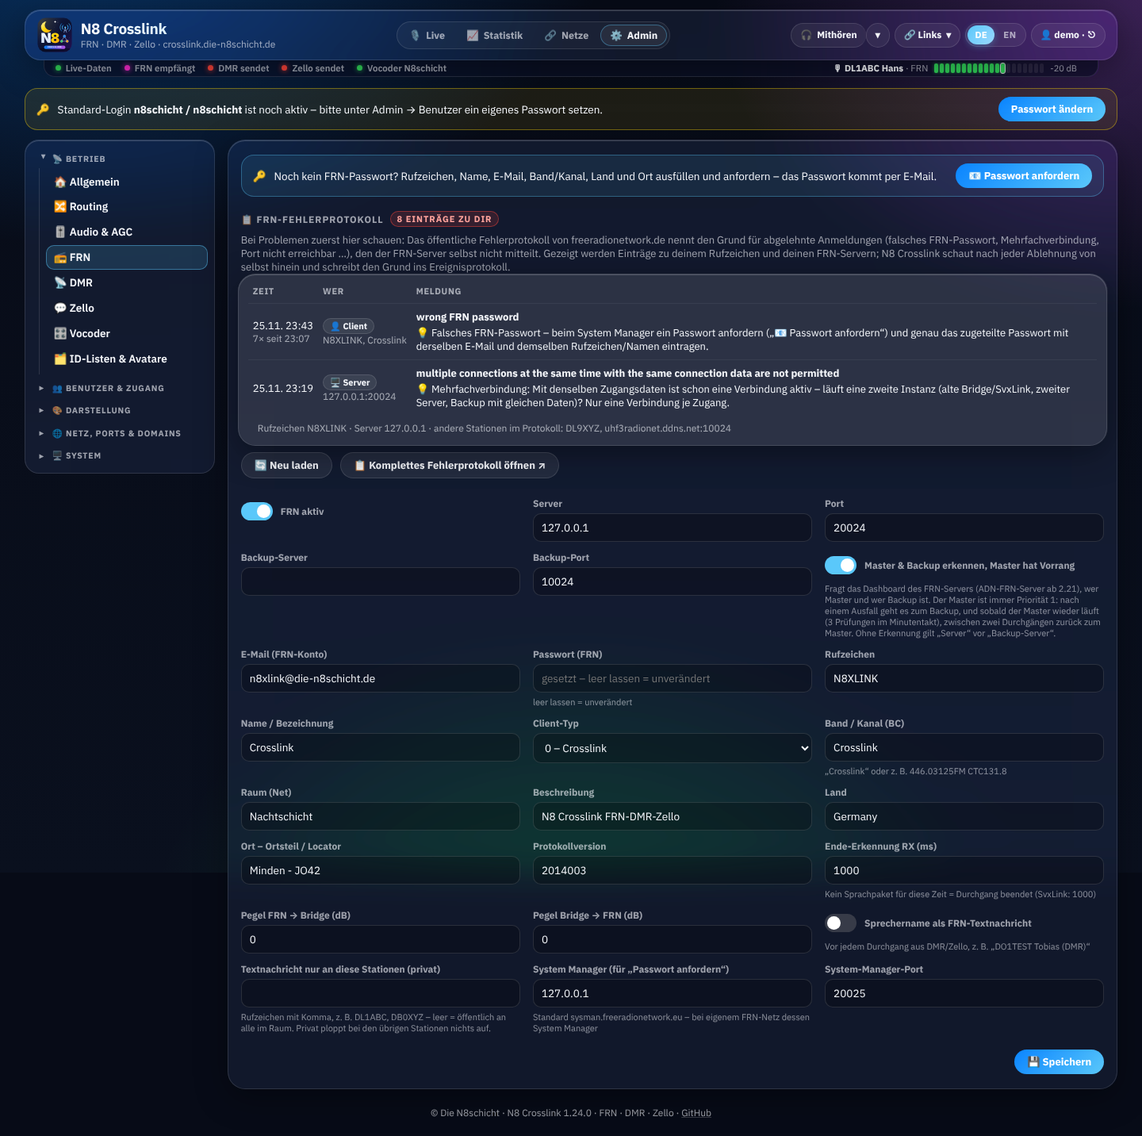
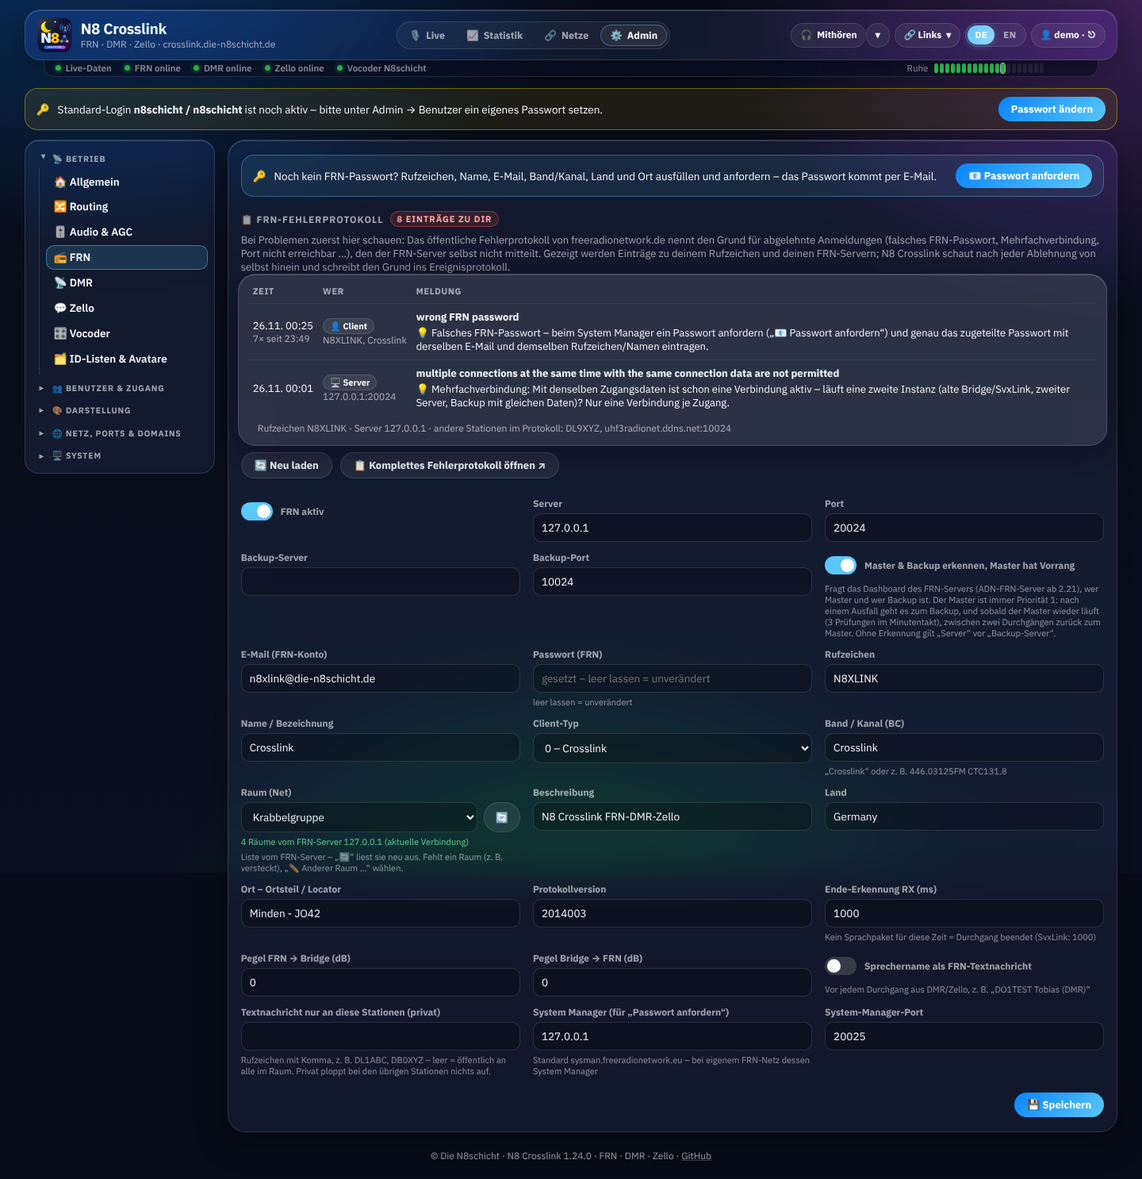
1.25.0: FRN-Raum als Auswahlmenü – Räume aus Verbindung, ADN-Dashboard oder kurzer FRN-Anmeldung
Claude-Session: https://claude.ai/code/session_01J5RG2njQDPpN1LJmv9Xn8d

diff --git a/n8crosslink/web/static/crosslink.js b/n8crosslink/web/static/crosslink.js
@@ -544,7 +544,7 @@ const SCHEMA = {
     F('callsign', 'Rufzeichen'), F('op_name', 'Name / Bezeichnung'),
     F('client_type', 'Client-Typ', 'select', { options: [[0, '0 – Crosslink'], [1, '1 – Gateway'], [2, '2 – PC Only']] }),
     F('band', 'Band / Kanal (BC)', 'text', { help: '„Crosslink“ oder z. B. 446.03125FM CTC131.8' }),
-    F('net', 'Raum (Net)'), F('description', 'Beschreibung'), F('country', 'Land'), F('city', 'Ort – Ortsteil / Locator'),
+    F('net', 'Raum (Net)', 'room', { help: 'Liste vom FRN-Server – „🔄“ liest sie neu aus. Fehlt ein Raum (z. B. versteckt), „✏ Anderer Raum …“ wählen.' }), F('description', 'Beschreibung'), F('country', 'Land'), F('city', 'Ort – Ortsteil / Locator'),
     F('version', 'Protokollversion'), F('rx_timeout_ms', 'Ende-Erkennung RX (ms)', 'number', { help: 'Kein Sprachpaket für diese Zeit = Durchgang beendet (SvxLink: 1000)' }),
     F('rx_gain_db', 'Pegel FRN → Bridge (dB)', 'number', { step: 0.5 }), F('tx_gain_db', 'Pegel Bridge → FRN (dB)', 'number', { step: 0.5 }),
     F('text_messages', 'Sprechername als FRN-Textnachricht', 'bool', { help: 'Vor jedem Durchgang aus DMR/Zello, z. B. „DO1TEST Tobias (DMR)“' }),
@@ -639,15 +639,55 @@ async function loadAdmin() {
   const sec = SCHEMA[S.adminSec];
   if (sec.custom) return sec.custom();
   renderForm(S.adminSec, sec.fields, sec.extra || '');
-  if (S.adminSec === 'frn') { $('#frnPwBtn').onclick = requestFrnPassword; $('#frnElReload').onclick = () => loadFrnErrorlog(true); loadFrnErrorlog(); }
+  if (S.adminSec === 'frn') { initRoomPick();
+    $('#frnPwBtn').onclick = requestFrnPassword; $('#frnElReload').onclick = () => loadFrnErrorlog(true); loadFrnErrorlog(); }
   if (S.adminSec === 'general') $('#annBtn').onclick = previewAnnounce;
+}
+
+// FRN: Raum-Auswahl aus der Raumliste des Servers (live · Dashboard · kurze Anmeldung)
+const ROOM_OTHER = '__other__';
+function initRoomPick() {
+  const sel = $('#f_frn_net'); if (!sel) return;
+  $('#frnRoomsBtn').onclick = () => loadRooms(true);
+  sel.onchange = () => {
+    if (sel.value !== ROOM_OTHER) return;
+    const cur = sel.dataset.prev || '';
+    const v = (prompt('Name des Raums (genau wie auf dem FRN-Server):', cur) || '').trim();
+    if (v && ![...sel.options].some(o => o.value === v)) sel.insertBefore(new Option(v + '  (eigene Eingabe)', v), sel.querySelector(`option[value="${ROOM_OTHER}"]`));
+    sel.value = v || cur;
+  };
+  sel.onfocus = () => { if (sel.value !== ROOM_OTHER) sel.dataset.prev = sel.value; };
+  ['#f_frn_server', '#f_frn_port'].forEach(q => { const el = $(q); if (el) el.addEventListener('change', () => loadRooms(true)); });
+  loadRooms(false);
+}
+async function loadRooms(manual) {
+  const sel = $('#f_frn_net'), note = $('#frnRoomsNote'), btn = $('#frnRoomsBtn'); if (!sel) return;
+  const cur = sel.value, server = ($('#f_frn_server')?.value || '').trim(), port = ($('#f_frn_port')?.value || '').trim();
+  note.textContent = 'Räume werden ausgelesen …'; note.className = 'room-note'; btn.disabled = true;
+  try {
+    const d = await api(`/api/admin/frn/rooms?server=${encodeURIComponent(server)}&port=${encodeURIComponent(port)}`);
+    if ($('#f_frn_net') !== sel) return;
+    const rooms = d.rooms || [];
+    const names = rooms.map(r => r.name);
+    const opts = rooms.map(r => [r.name, r.name + (r.clients != null ? `  · ${r.clients} ${r.clients === 1 ? 'Station' : 'Stationen'}` : '')]);
+    if (cur && !names.includes(cur)) opts.unshift([cur, cur + (rooms.length ? '  (nicht in der Liste)' : '')]);
+    if (!opts.length) opts.push(['', '– Raum wählen –']);
+    sel.innerHTML = opts.map(([v, l]) => `<option value="${esc(v)}">${esc(l)}</option>`).join('') + `<option value="${ROOM_OTHER}">✏ Anderer Raum …</option>`;
+    sel.value = cur || opts[0][0];
+    note.textContent = rooms.length ? `${rooms.length} ${rooms.length === 1 ? 'Raum' : 'Räume'} ${d.note || ''}` : (d.note || 'Keine Räume gefunden');
+    note.className = 'room-note ' + (rooms.length ? 'ok' : 'warn');
+    if (manual && rooms.length) toast(`🔄 ${rooms.length} Räume ausgelesen`);
+  } catch (e) { note.textContent = '⚠ ' + e.message; note.className = 'room-note warn'; }
+  finally { btn.disabled = false; }
 }
 
 function fieldHtml(sec, f, val) {
   const id = `f_${sec}_${f.key}`, help = f.help ? `<small>${esc(f.help)}</small>` : '';
   if (f.type === 'bool') return `<div class="field ${f.wide ? 'wide' : ''}"><label class="switch"><input type="checkbox" id="${id}" ${val ? 'checked' : ''}><span></span>${esc(f.label)}</label>${help}</div>`;
   let input;
-  if (f.type === 'select') input = `<select id="${id}">${f.options.map(([v, l]) => `<option value="${esc(v)}" ${String(v) === String(val) ? 'selected' : ''}>${esc(l)}</option>`).join('')}</select>`;
+  if (f.type === 'room') input = `<div class="room-pick"><select id="${id}"><option value="${esc(val)}" selected>${esc(val || '– Raum wählen –')}</option></select>
+    <button class="btn secondary" type="button" id="frnRoomsBtn" title="Räume vom FRN-Server auslesen">🔄</button></div><small id="frnRoomsNote" class="room-note">Räume werden ausgelesen …</small>`;
+  else if (f.type === 'select') input = `<select id="${id}">${f.options.map(([v, l]) => `<option value="${esc(v)}" ${String(v) === String(val) ? 'selected' : ''}>${esc(l)}</option>`).join('')}</select>`;
   else if (f.type === 'textarea') input = `<textarea id="${id}" placeholder="${val === '********' ? 'gesetzt – leer lassen = unverändert' : ''}">${val === '********' ? '' : esc(val)}</textarea>`;
   else if (f.type === 'json') input = `<textarea id="${id}">${esc(JSON.stringify(val, null, 2))}</textarea>`;
   else if (f.type === 'password') input = `<input type="password" id="${id}" autocomplete="new-password" placeholder="${val ? 'gesetzt – leer lassen = unverändert' : ''}">`;
@@ -657,6 +697,7 @@ function fieldHtml(sec, f, val) {
 function readField(sec, f) {
   const el = $(`#f_${sec}_${f.key}`); if (!el) return undefined;
   if (f.type === 'bool') return el.checked;
+  if (f.type === 'room' && el.value === ROOM_OTHER) return el.dataset.prev || '';
   if (f.type === 'json') { try { return JSON.parse(el.value); } catch { throw new Error(f.label + ': ungültiges JSON'); } }
   return el.value;
 }

diff --git a/n8crosslink/web/static/crosslink.css b/n8crosslink/web/static/crosslink.css
@@ -532,3 +532,10 @@ tr.perm-ok td:last-child { color: var(--text-dim); }
 .xl-radio .lcd-chart .oa-canvas { flex: none; height: 150px; min-height: 0; }
 .xl-radio .rd-inst .oa-canvas { height: 70px; }
 .xl-radio .rd-main { align-items: stretch; }
+
+/* FRN: Raum-Auswahl */
+.room-pick { display: flex; gap: 8px; align-items: stretch; }
+.room-pick select { flex: 1; min-width: 0; }
+.room-pick .btn { padding: 0 14px; flex: none; }
+.room-note.ok { color: #6ee7a0; }
+.room-note.warn { color: #fbbf24; }

diff --git a/n8crosslink/frn_rooms.py b/n8crosslink/frn_rooms.py
@@ -1,0 +1,134 @@
+"""Räume (Nets) eines FRN-Servers auslesen – für das Raum-Auswahlmenü im Admin.
+
+Drei Quellen, in dieser Reihenfolge:
+
+1. **live** – der Crosslink ist mit genau diesem Server verbunden: die Raumliste, die der Server nach dem Login schickt
+   (Listentyp 5), steht schon bereit.
+2. **dashboard** – der Server hat ein ADN-FRN-Server-Dashboard (``/api/live`` → ``rooms``): Räume mit Stationszahl,
+   ohne FRN-Anmeldung. Versteckte Räume zeigt das öffentliche Dashboard nicht.
+3. **login** – kurze FRN-Anmeldung mit dem eingetragenen Konto, Raumliste lesen, sofort wieder abmelden. Nur wenn der
+   Crosslink gerade *nicht* mit demselben Konto online ist (der System Manager erlaubt jedes Konto nur einmal).
+"""
+from __future__ import annotations
+
+import asyncio
+import re
+from typing import Any
+
+from . import frn_cluster
+
+DT_IDLE, DT_DO_TX, DT_VOICE, DT_CLIENT_LIST, DT_NETS = 0, 1, 2, 3, 5
+GSM_BYTES = 325
+TIMEOUT = 10.0
+
+
+def _clean(names: list[str]) -> list[str]:
+    out = []
+    for n in names:
+        n = re.sub(r"<[^>]+>", "", str(n or "")).strip()
+        if n and n not in out:
+            out.append(n)
+    return out
+
+
+def from_dashboard_data(d: dict | None) -> list[dict]:
+    rooms = (d or {}).get("rooms")
+    if not isinstance(rooms, list):
+        return []
+    out = []
+    for r in rooms:
+        if isinstance(r, dict) and r.get("name") and not r.get("hidden"):
+            out.append({"name": str(r["name"]), "clients": len(r.get("clients") or [])})
+    return out
+
+
+async def _probe(host: str, port: int, s: dict) -> list[str]:
+    """Kurz am FRN-Server anmelden und die Raumliste lesen."""
+    on = f"{s.get('callsign', '')}, {s.get('op_name', '')}"
+    login = ("CT:" + f"<VX>{s.get('version') or '2014003'}</VX>" + f"<EA>{s.get('email', '')}</EA>"
+             + f"<PW>{s.get('password', '')}</PW>" + f"<ON>{on}</ON>" + f"<CL>{s.get('client_type', 0)}</CL>"
+             + f"<BC>{s.get('band', '')}</BC>" + f"<DS>{s.get('description', '')}</DS>" + f"<NN>{s.get('country', '')}</NN>"
+             + f"<CT>{s.get('city', '')}</CT>" + f"<NT>{s.get('net') or 'Test'}</NT>")
+    reader, writer = await asyncio.wait_for(asyncio.open_connection(host, port), TIMEOUT)
+
+    def cmd(t: str) -> None:
+        writer.write(t.encode("latin-1", errors="replace") + b"\r\n")
+
+    async def read_list() -> list[str]:
+        first = (await asyncio.wait_for(reader.readline(), TIMEOUT)).decode("latin-1").strip()
+        try:
+            n = int(first)
+        except ValueError:
+            return []
+        return [(await asyncio.wait_for(reader.readline(), TIMEOUT)).decode("latin-1", "replace").rstrip("\r\n")
+                for _ in range(min(n, 200))]
+
+    try:
+        cmd(login)
+        await writer.drain()
+        await asyncio.wait_for(reader.readline(), TIMEOUT)                     # Server-Version
+        resp = (await asyncio.wait_for(reader.readline(), TIMEOUT)).decode("latin-1", "replace")
+        al = (re.search(r"<AL>(.*?)</AL>", resp) or [None, ""])[1]
+        if al in ("", "WRONG", "BLOCK"):
+            raise PermissionError(f"Anmeldung abgelehnt ({al or 'keine Antwort'}) – E-Mail/Passwort prüfen")
+        cmd("RX0")
+        cmd("P")
+        loop = asyncio.get_running_loop()
+        end = loop.time() + TIMEOUT
+        while loop.time() < end:
+            b = await asyncio.wait_for(reader.readexactly(1), max(0.5, end - loop.time()))
+            dt = b[0]
+            if dt == DT_IDLE:
+                cmd("P")
+            elif dt == DT_DO_TX:
+                await reader.readexactly(2)
+            elif dt == DT_VOICE:
+                await reader.readexactly(2 + GSM_BYTES)
+                cmd("P")
+            elif dt == DT_CLIENT_LIST:
+                await reader.readexactly(2)
+                await read_list()
+                cmd("P")
+            elif dt == DT_NETS:
+                return await read_list()
+            elif 4 <= dt <= 10:
+                await read_list()
+                cmd("P")
+            else:
+                break
+        return []
+    finally:
+        try:
+            writer.close()
+        except Exception:  # noqa: BLE001
+            pass
+
+
+async def rooms(host: str, port: int, section: dict, frn_port: Any = None) -> dict:
+    """Raumliste für ``host:port``. Rückgabe ``{rooms: [{name, clients?}], source, note}``."""
+    host = (host or "").strip()
+    if not host:
+        return {"rooms": [], "source": "", "note": "Erst einen Server eintragen"}
+    online_same = bool(frn_port and getattr(frn_port, "online", False) and getattr(frn_port, "target", None)
+                       and str(frn_port.target[0]).lower() == host.lower())
+    live = _clean(getattr(frn_port, "nets", []) or []) if online_same else []
+    if live:
+        return {"rooms": [{"name": n} for n in live], "source": "live",
+                "note": f"vom FRN-Server {host} (aktuelle Verbindung)"}
+    dash = from_dashboard_data(await asyncio.to_thread(frn_cluster.dashboard, host, "/api/live"))
+    if dash:
+        return {"rooms": dash, "source": "dashboard", "note": f"vom Dashboard {host} (ohne versteckte Räume)"}
+    if frn_port and getattr(frn_port, "online", False) and section.get("email"):
+        return {"rooms": [], "source": "", "note": "Der Crosslink ist gerade mit diesem FRN-Konto online – eine zweite Anmeldung "
+                                                   "würde abgelehnt. Raumliste kommt nach dem Verbinden mit diesem Server."}
+    if not section.get("email") or not section.get("password"):
+        return {"rooms": [], "source": "", "note": "Für das Auslesen per FRN-Anmeldung E-Mail und Passwort eintragen und speichern"}
+    try:
+        names = _clean(await _probe(host, int(port or 10024), section))
+    except PermissionError as e:
+        return {"rooms": [], "source": "", "note": str(e)}
+    except (OSError, asyncio.TimeoutError, asyncio.IncompleteReadError) as e:
+        return {"rooms": [], "source": "", "note": f"{host}:{port} nicht erreichbar ({e.__class__.__name__})"}
+    if not names:
+        return {"rooms": [], "source": "", "note": "Der Server hat keine Raumliste geschickt"}
+    return {"rooms": [{"name": n} for n in names], "source": "login", "note": f"vom FRN-Server {host} (kurze Anmeldung)"}

diff --git a/tests/test_frn_rooms.py b/tests/test_frn_rooms.py
@@ -1,0 +1,72 @@
+"""Raum-Auswahl FRN: Raumliste per kurzer FRN-Anmeldung, aus dem Dashboard und aus der laufenden Verbindung."""
+import asyncio
+import sys
+from pathlib import Path
+from types import SimpleNamespace
+from unittest import mock
+
+sys.path.insert(0, str(Path(__file__).resolve().parents[1]))
+from n8crosslink import frn_rooms  # noqa: E402
+
+ACC = {"email": "a@b.de", "password": "x", "callsign": "DO1TEST", "op_name": "Test", "net": "Test"}
+
+
+async def _fake_server(answer_al: str, logins: list):
+    async def handle(r, w):
+        logins.append((await r.readline()).decode())
+        w.write(b"2014003\r\n" + f"<SV>1</SV><AL>{answer_al}</AL>\r\n".encode())
+        await w.drain()
+        if answer_al != "OK":
+            w.close()
+            return
+        await r.readline()                                    # RX0
+        w.write(bytes([3]) + b"\x00\x01" + b"1\r\n<ON>DL1ABC, Hans</ON>\r\n")       # Teilnehmerliste zuerst
+        w.write(bytes([5]) + b"3\r\nKrabbelgruppe\r\nLagerfeuer\r\nTest\r\n")       # dann die Raumliste
+        await w.drain()
+        try:
+            await asyncio.wait_for(r.read(), 5)
+        except Exception:  # noqa: BLE001
+            pass
+        w.close()
+    return await asyncio.start_server(handle, "127.0.0.1", 0)
+
+
+def test_probe_login_reads_rooms():
+    async def run():
+        logins = []
+        srv = await _fake_server("OK", logins)
+        port = srv.sockets[0].getsockname()[1]
+        with mock.patch.object(frn_rooms.frn_cluster, "dashboard", return_value=None):
+            d = await frn_rooms.rooms("127.0.0.1", port, ACC, None)
+        srv.close()
+        return d, logins
+    d, logins = asyncio.run(run())
+    assert [r["name"] for r in d["rooms"]] == ["Krabbelgruppe", "Lagerfeuer", "Test"] and d["source"] == "login"
+    assert "<EA>a@b.de</EA>" in logins[0]
+
+
+def test_probe_wrong_password():
+    async def run():
+        srv = await _fake_server("WRONG", [])
+        port = srv.sockets[0].getsockname()[1]
+        with mock.patch.object(frn_rooms.frn_cluster, "dashboard", return_value=None):
+            d = await frn_rooms.rooms("127.0.0.1", port, ACC, None)
+        srv.close()
+        return d
+    d = asyncio.run(run())
+    assert not d["rooms"] and "abgelehnt" in d["note"]
+
+
+def test_dashboard_and_live_and_no_double_login():
+    dash = {"rooms": [{"name": "A", "clients": [1, 2]}, {"name": "Geheim", "hidden": True, "clients": []}]}
+    with mock.patch.object(frn_rooms.frn_cluster, "dashboard", return_value=dash):
+        d = asyncio.run(frn_rooms.rooms("frn.example.de", 10024, ACC, None))
+    assert d["rooms"] == [{"name": "A", "clients": 2}] and d["source"] == "dashboard"
+    live = SimpleNamespace(online=True, target=("FRN.example.de", 10024), nets=["X", "Y"])
+    d = asyncio.run(frn_rooms.rooms("frn.example.de", 10024, ACC, live))
+    assert [r["name"] for r in d["rooms"]] == ["X", "Y"] and d["source"] == "live"
+    other = SimpleNamespace(online=True, target=("anderer.de", 10024), nets=["X"])
+    with mock.patch.object(frn_rooms.frn_cluster, "dashboard", return_value=None), \
+         mock.patch.object(frn_rooms, "_probe", side_effect=AssertionError("keine zweite Anmeldung")):
+        d = asyncio.run(frn_rooms.rooms("frn.example.de", 10024, ACC, other))
+    assert not d["rooms"] and "online" in d["note"]

diff --git a/tests/sim_e2e.py b/tests/sim_e2e.py
@@ -223,6 +223,7 @@ class FakeFRN:
                         self.sent_list = True
                         body = f"{len(self.CLIENTS)}\r\n" + "\r\n".join(self.CLIENTS) + "\r\n"
                         writer.write(bytes([3, 0, 0]) + body.encode())
+                        writer.write(bytes([5]) + b"4\r\nTest\r\nKrabbelgruppe\r\nLagerfeuer\r\nTechsupport\r\n")   # Raumliste
                     else:
                         await asyncio.sleep(0.05)
                         writer.write(b"\x00")
@@ -433,6 +434,11 @@ async def main() -> int:
     await asyncio.sleep(0.5)
     check("FRN-Raumliste gelesen", len(r.ports["frn"].clients) == 2,
           ", ".join(c["callsign"] + " " + c["name"] for c in r.ports["frn"].clients))
+    from n8crosslink import frn_rooms
+    fp = r.ports["frn"]
+    rl = await frn_rooms.rooms(fp.target[0], fp.target[1], {}, fp)
+    check("FRN-Räume für das Auswahlmenü (aus der Verbindung)", rl["source"] == "live" and
+          [x["name"] for x in rl["rooms"]] == ["Test", "Krabbelgruppe", "Lagerfeuer", "Techsupport"], rl.get("note", ""))
 
     # ---------------- ID-Listen & Avatare
     print("\n▶ ID-Listen (FreeRadioID-Format) und Talkgroups")

diff --git a/n8crosslink/web/server.py b/n8crosslink/web/server.py
@@ -706,6 +706,16 @@ def create_app(bridge) -> FastAPI:  # noqa: ANN001, C901
         return {"ok": True, "relogin": scope == "all"}
 
     # ---- FRN: öffentliches Fehlerprotokoll von freeradionetwork.de (Grund für abgelehnte Anmeldungen)
+    @app.get("/api/admin/frn/rooms")
+    async def frn_rooms(server: str = "", port: int = 0, _: str = Depends(require_admin)) -> dict:
+        """Räume des FRN-Servers für das Auswahlmenü (live, Dashboard oder kurze Anmeldung)."""
+        from .. import frn_rooms
+        s = db.load_config()["frn"]
+        host = (server or s.get("server") or "").strip()
+        if len(host) > 253 or not re.fullmatch(r"[A-Za-z0-9.\-]+", host or "-"):
+            raise HTTPException(400, "Ungültiger Servername")
+        return await frn_rooms.rooms(host, int(port or s.get("port") or 10024), s, bridge.router.ports.get("frn"))
+
     @app.get("/api/admin/frn/errorlog")
     async def frn_errorlog(force: bool = False, _: str = Depends(require_admin)) -> dict:
         from .. import frn_errorlog as el

diff --git a/tests/demo_server.py b/tests/demo_server.py
@@ -82,7 +82,7 @@ async def main(port: int) -> None:
     db = Database(os.path.join(tempfile.mkdtemp(), "demo.db"))
     db.save_section("general", {"title": "N8 Crosslink", "server_name": "crosslink.die-n8schicht.de", "hang_time_ms": 400})
     db.save_section("frn", {"server": "127.0.0.1", "port": sim.FRN_PORT, "email": "n8xlink@die-n8schicht.de", "password": "x",
-                            "net": "Nachtschicht", "sysman_server": "127.0.0.1", "sysman_port": 20025})
+                            "net": "Krabbelgruppe", "sysman_server": "127.0.0.1", "sysman_port": 20025})
     db.save_section("dmr", {"host": "127.0.0.1", "port": sim.HB_PORT, "password": sim.FakeHB.PASS, "peer_id": 262000101,
                             "src_id": 2620001, "tg_rx": 262, "tg_tx": 262, "userdb_url": "", "userdb_fallback_url": ""})
     db.save_section("zello", {"enabled": True, "server": f"ws://127.0.0.1:{sim.ZELLO_PORT}/ws", "channel": "N8schicht",

diff --git a/n8crosslink/__init__.py b/n8crosslink/__init__.py
@@ -1,2 +1,2 @@
 """N8 Crosslink – FRN · DMR · Zello Bridge im Die-N8schicht-Design."""
-__version__ = "1.24.0"
+__version__ = "1.25.0"

diff --git a/README.md b/README.md
@@ -137,7 +137,7 @@ Senden in die Netze:
 python3 tests/sim_e2e.py
 ```
 
-Startet einen simulierten FRN-Server, einen simulierten HBlink-Master, einen simulierten Zello-Server und einen simulierten AMBE3000 und prüft alle Richtungen, Talker Alias, Textnachrichten, Start/Stop-Erkennung und den Schleifenschutz (aktuell 57/57 Prüfungen: FRN-Passwortanforderung, private FRN-Textnachricht, Sprachansage, alle Richtungen, zwei Durchsagen direkt hintereinander, Mithören, ID-Listen, Avatare, Verbindungsabbrüche mit Watchdog, Updateprüfung, verschlüsseltes Backup, Zurücksetzen und Wiederherstellen). `tests/test_vocoder.py` prüft den N8schicht-Vocoder (Ton, Bitfehler, Regler, Absturz/Neustart), `tools/vocoder_test.py` misst Eingang gegen Ausgang mit WAV-Dateien. `tests/test_fec.py` vergleicht die DMR-FEC bitgenau mit dmr_utils3. `tests/test_agc.py` prüft AGC, Limiter, Torschwelle und Klangfilter. `tests/demo_server.py` startet dieselbe Simulation mit echtem Dashboard (Login `demo` / `demo12345`).
+Startet einen simulierten FRN-Server, einen simulierten HBlink-Master, einen simulierten Zello-Server und einen simulierten AMBE3000 und prüft alle Richtungen, Talker Alias, Textnachrichten, Start/Stop-Erkennung und den Schleifenschutz (aktuell 56/56 Prüfungen: FRN-Passwortanforderung, private FRN-Textnachricht, Sprachansage, alle Richtungen, zwei Durchsagen direkt hintereinander, Mithören, ID-Listen, Avatare, Verbindungsabbrüche mit Watchdog, Updateprüfung, verschlüsseltes Backup, Zurücksetzen und Wiederherstellen). `tests/test_vocoder.py` prüft den N8schicht-Vocoder (Ton, Bitfehler, Regler, Absturz/Neustart), `tools/vocoder_test.py` misst Eingang gegen Ausgang mit WAV-Dateien. `tests/test_fec.py` vergleicht die DMR-FEC bitgenau mit dmr_utils3. `tests/test_agc.py` prüft AGC, Limiter, Torschwelle und Klangfilter. `tests/demo_server.py` startet dieselbe Simulation mit echtem Dashboard (Login `demo` / `demo12345`).
 
 ## Lizenz & Danksagung
 

diff --git a/CHANGELOG.md b/CHANGELOG.md
@@ -2,6 +2,24 @@
 
 Alle Änderungen an N8 Crosslink. Versionierung nach [SemVer](https://semver.org/lang/de/).
 
+## [1.25.0] – 2026-11-26
+
+### 🏠 FRN: Raum aus dem Auswahlmenü
+- **Raum (Net)** ist jetzt ein **Auswahlmenü** mit den Räumen des FRN-Servers – mit Anzahl der Stationen je Raum, wenn bekannt.
+- Ausgelesen wird automatisch beim Öffnen von *Admin → FRN* und nach jeder Änderung von Server oder Port; **🔄** daneben liest neu.
+- Drei Quellen, die beste gewinnt:
+  1. **aktuelle Verbindung** – die Raumliste, die der FRN-Server nach dem Login schickt;
+  2. **ADN-FRN-Server-Dashboard** (`/api/live`) – ohne Anmeldung, mit Stationszahl, versteckte Räume bleiben verborgen;
+  3. **kurze FRN-Anmeldung** mit dem eingetragenen Konto (Liste lesen, sofort abmelden) – aber **nie**, solange der Crosslink mit
+     demselben Konto schon online ist: der System Manager erlaubt jedes Konto nur einmal, eine zweite Anmeldung würde die Bridge stören.
+- Unter dem Menü steht, woher die Liste kommt bzw. warum keine kam (Server nicht erreichbar, Anmeldung abgelehnt …).
+- Steht der eingetragene Raum nicht in der Liste, bleibt er erhalten und ist markiert; **✏ Anderer Raum …** erlaubt jeden Namen
+  (z. B. versteckte Räume).
+- Neuer Admin-Endpunkt `GET /api/admin/frn/rooms?server=…&port=…` (nur Admins, Servername geprüft).
+- Tests: `tests/test_frn_rooms.py` (Anmeldung mit Raumliste, falsches Passwort, Dashboard, laufende Verbindung, keine
+  Doppelanmeldung); End-to-End-Simulation jetzt 56/56 (simulierter FRN-Server schickt eine Raumliste).
+- Doku: [KONFIGURATION.md](docs/KONFIGURATION.md#-raum-aus-dem-auswahlmenü), Screenshot *Admin → FRN* neu.
+
 ## [1.24.0] – 2026-11-25
 
 ### 🎚 Neu: Audio & AGC – schnelle, einstellbare Pegelregelung in der ganzen Bridge

diff --git a/docs/KONFIGURATION.md b/docs/KONFIGURATION.md
@@ -71,6 +71,17 @@ drei FRN-Werte auf 0.
 ## 📻 FRN
 Server, Backup-Server, Konto, Rufzeichen/Name (erscheint im FRN-Raum als „Rufzeichen, Name“), Client-Typ (0 = Crosslink, 1 = Gateway, 2 = PC Only), Band/Kanal, Raum. *Ende-Erkennung RX* ist die Zeit ohne Sprachpaket, nach der ein Durchgang als beendet gilt. 
 
+### 🏠 Raum aus dem Auswahlmenü
+**Raum (Net)** ist ein Auswahlmenü mit den Räumen des eingetragenen FRN-Servers (mit Anzahl der Stationen, wenn bekannt).
+Die Liste wird beim Öffnen von *FRN* und nach jeder Änderung von Server/Port ausgelesen, **🔄** liest sie neu. Quellen:
+
+1. **aktuelle Verbindung** – ist der Crosslink mit diesem Server verbunden, nimmt er die Raumliste, die der Server nach dem Login schickt;
+2. **Dashboard** – hat der Server ein ADN-FRN-Server-Dashboard, kommt die Liste von dort (mit Stationszahl, ohne versteckte Räume);
+3. **kurze FRN-Anmeldung** – sonst meldet sich der Crosslink mit dem eingetragenen Konto kurz an, liest die Liste und meldet sich ab.
+   Das passiert nicht, solange er mit demselben Konto schon online ist (der System Manager erlaubt jedes Konto nur einmal).
+
+Ein versteckter oder neuer Raum, der nicht in der Liste steht: **✏ Anderer Raum …** wählen und den Namen eintippen.
+
 ### 🔁 FRN Master & Backup – Master hat immer Vorrang
 
 Mit **„Master & Backup erkennen, Master hat Vorrang“** (Standard an) fragt der Crosslink das Dashboard des FRN-Servers
